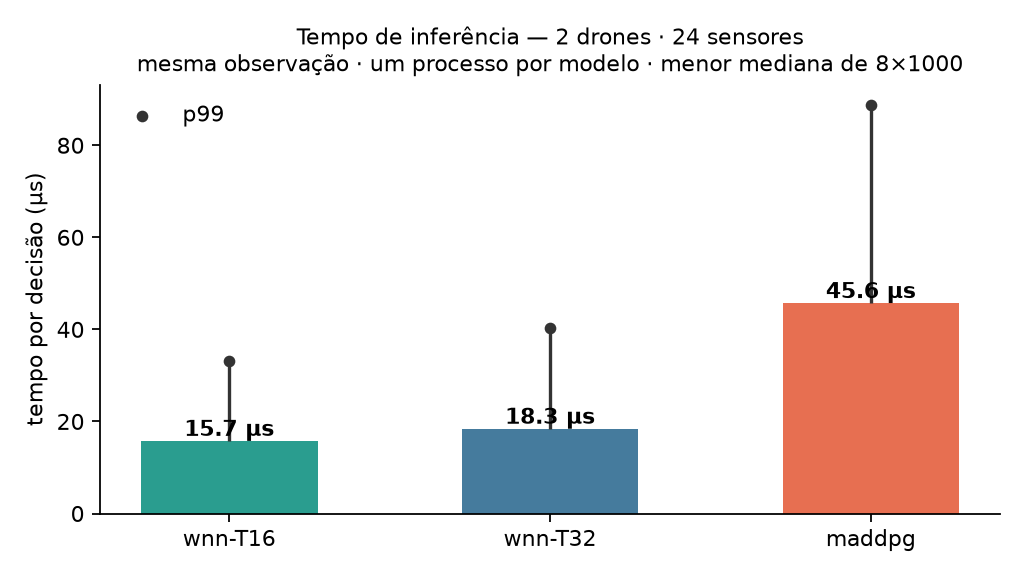
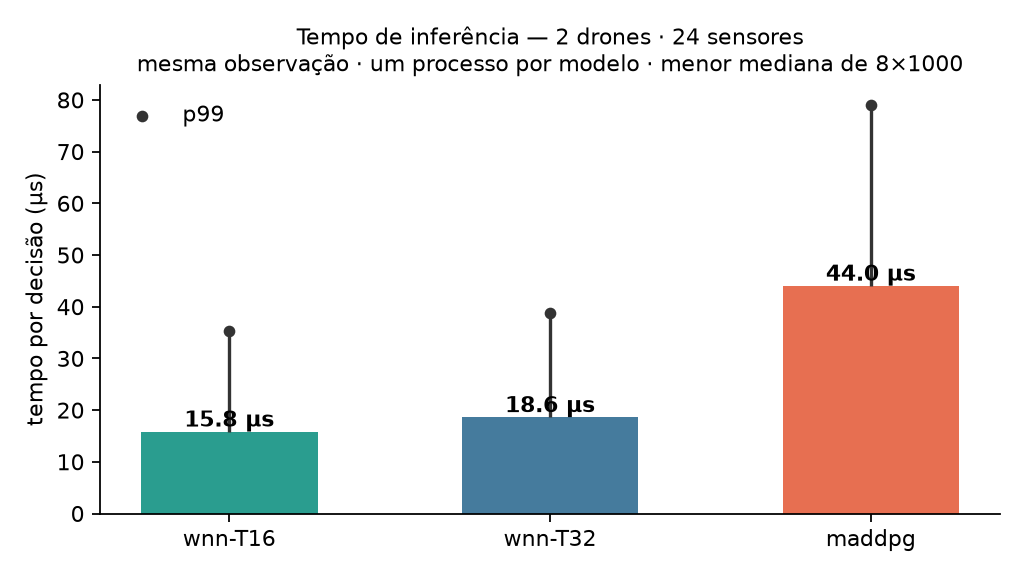
chore(spec-03): regenera latência/memória — máquina quieta, npz estreitos
Load 0,42, nada treinando: wnn-T16 15,8 µs · wnn-T32 18,6 µs · maddpg 44,0 µs
(2,8× / 2,4×), p99 79–39 µs. A barra ator+crítico cai com os npz estreitos:
T16 1.827 -> 1.380 KB, T32 3.675 -> 2.856 KB.

diff --git a/reports/spec03-latencia-memoria-a2s24.md b/reports/spec03-latencia-memoria-a2s24.md
@@ -6,13 +6,13 @@ Gerado por `scripts/spec03_latencia_memoria.py` em 2026-08-27 · x86_64 · mesma
 
 | modelo | mediana | p99 |
 | --- | --- | --- |
-| wnn-T16 | 15.7 µs | 33.0 µs |
-| wnn-T32 | 18.3 µs | 40.3 µs |
-| maddpg | 45.6 µs | 88.8 µs |
+| wnn-T16 | 15.8 µs | 35.3 µs |
+| wnn-T32 | 18.6 µs | 38.9 µs |
+| maddpg | 44.0 µs | 79.0 µs |
 
-- wnn-T16 é **2.9×** mais rápida que o MADDPG
+- wnn-T16 é **2.8×** mais rápida que o MADDPG
 
-- wnn-T32 é **2.5×** mais rápida que o MADDPG
+- wnn-T32 é **2.4×** mais rápida que o MADDPG
 
 ## Memória, nas quatro leituras (KB)
 
@@ -33,7 +33,7 @@ Gerado por `scripts/spec03_latencia_memoria.py` em 2026-08-27 · x86_64 · mesma
 | --- | --- |
 | wnn-T16 | 17 MB |
 | wnn-T32 | 17 MB |
-| maddpg | 481 MB |
+| maddpg | 479 MB |
 
 ![tempos](spec03-latencia-a2s24.png)
 ![memória](spec03-memoria-a2s24.png)
